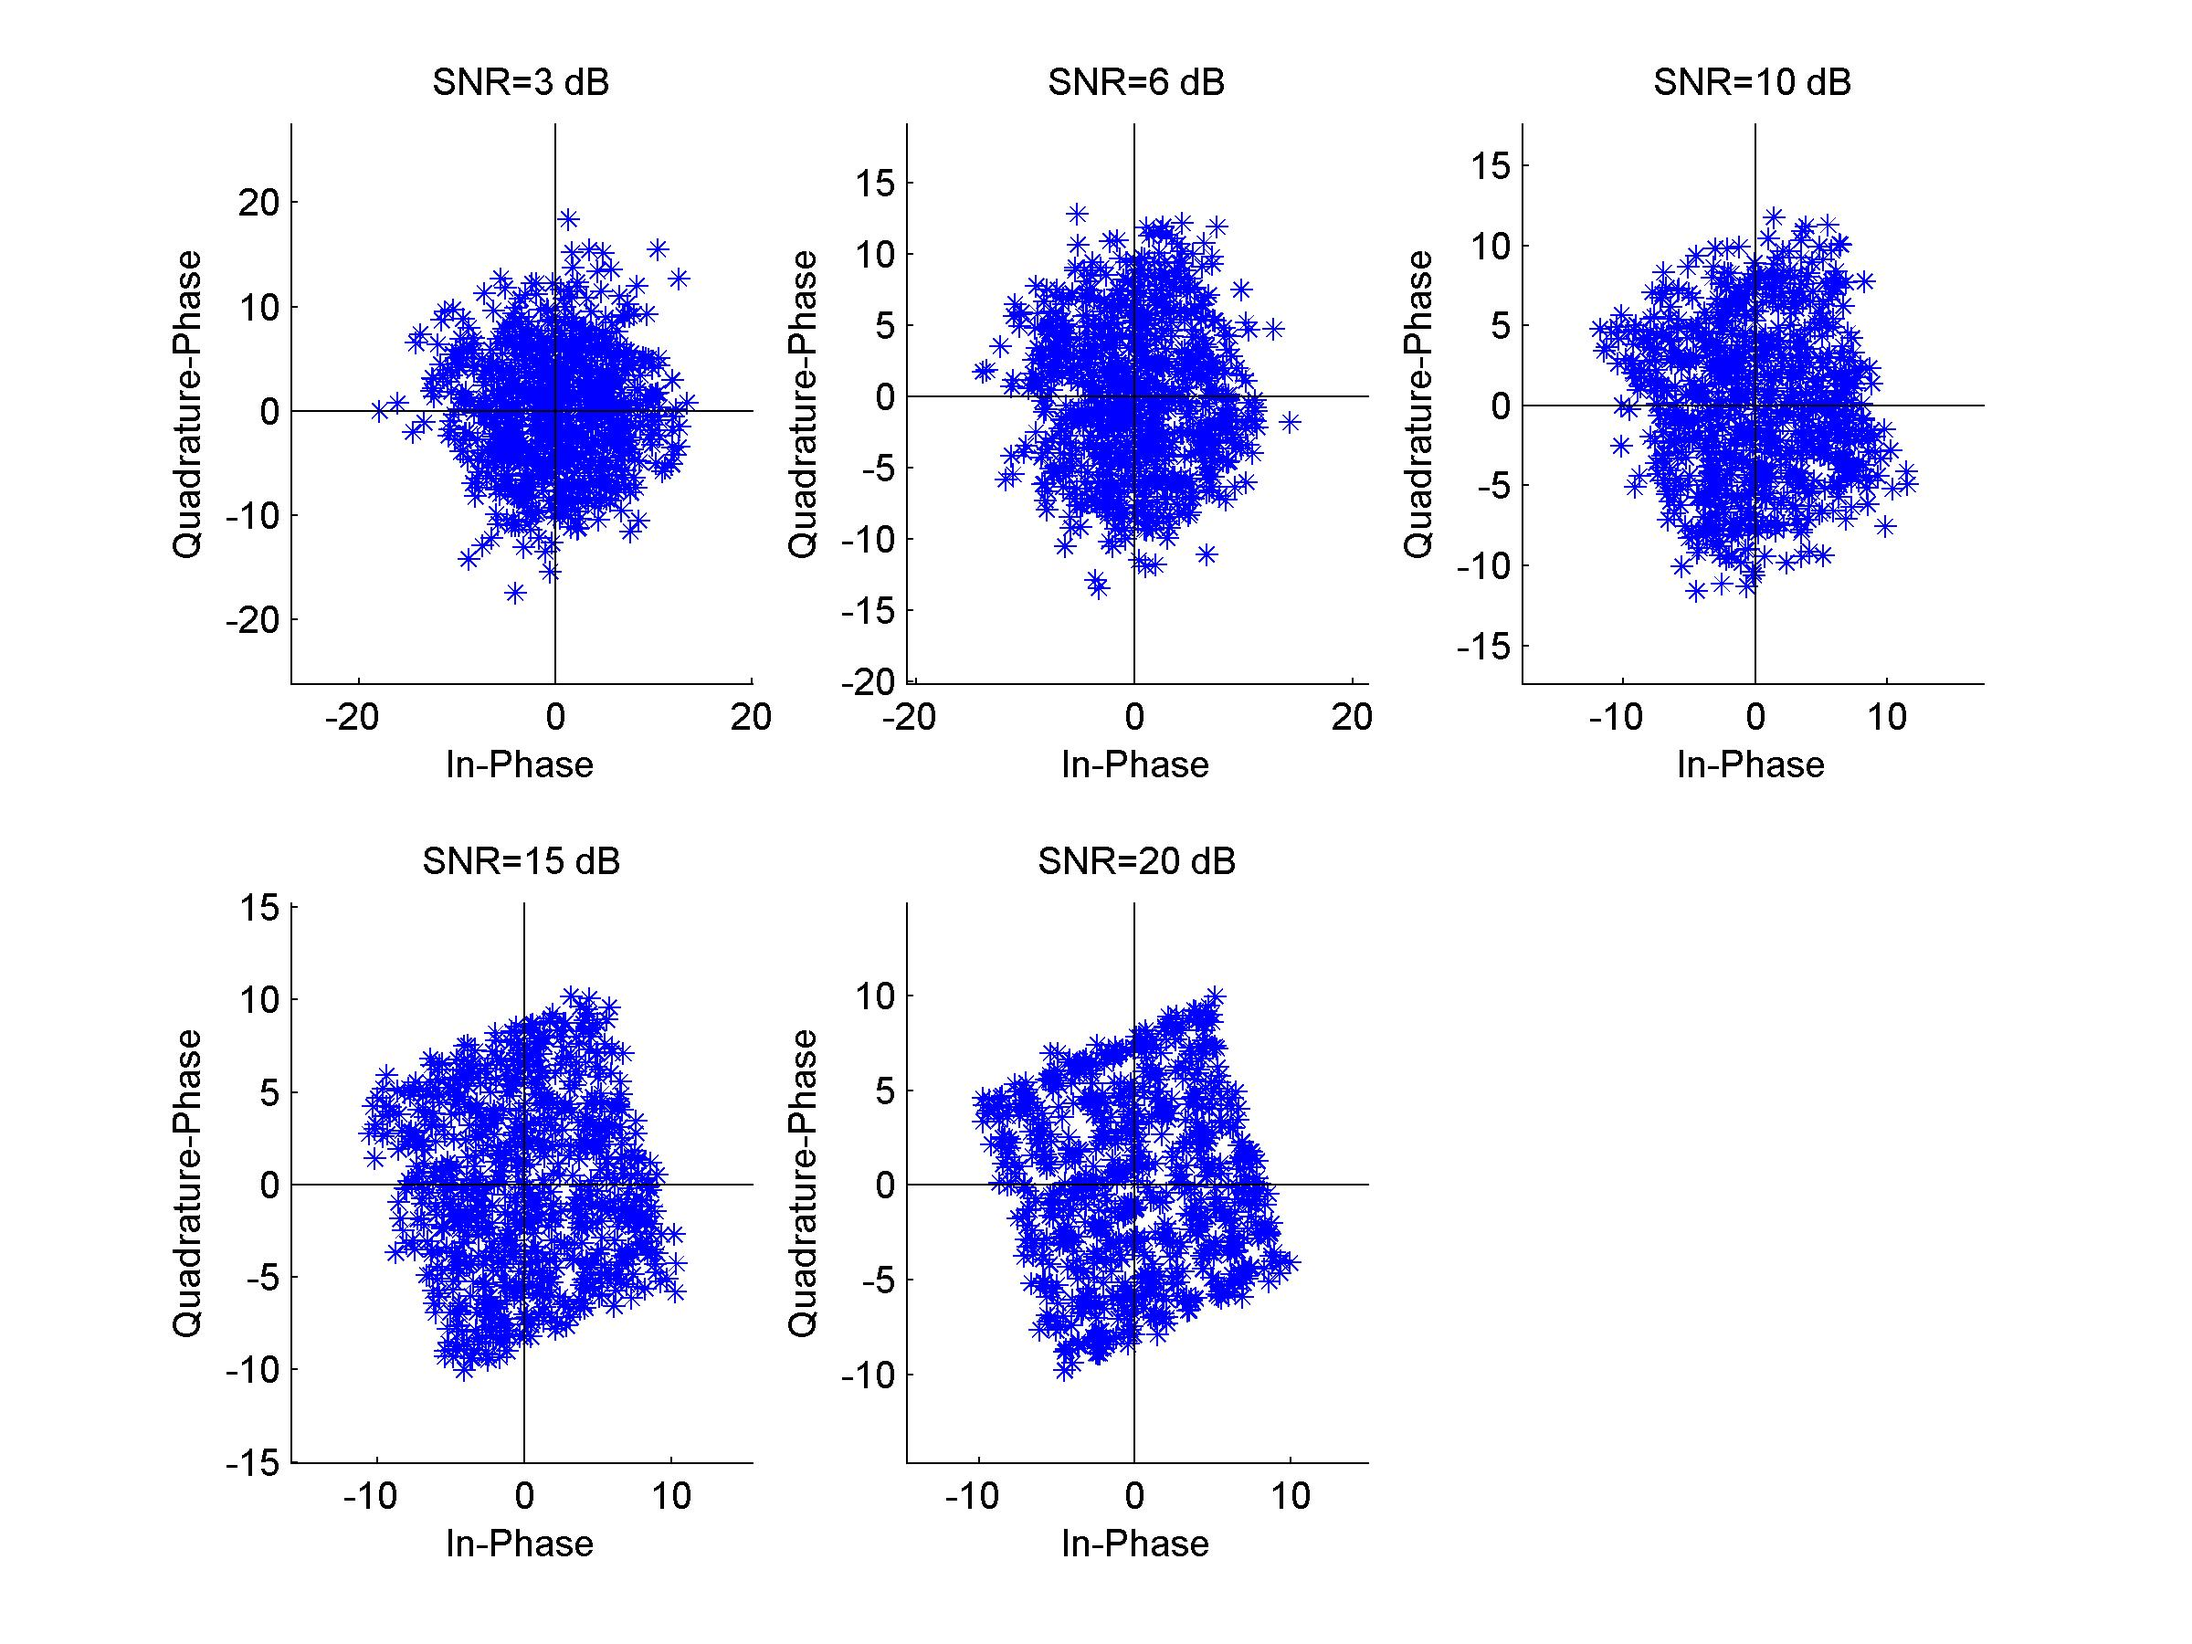
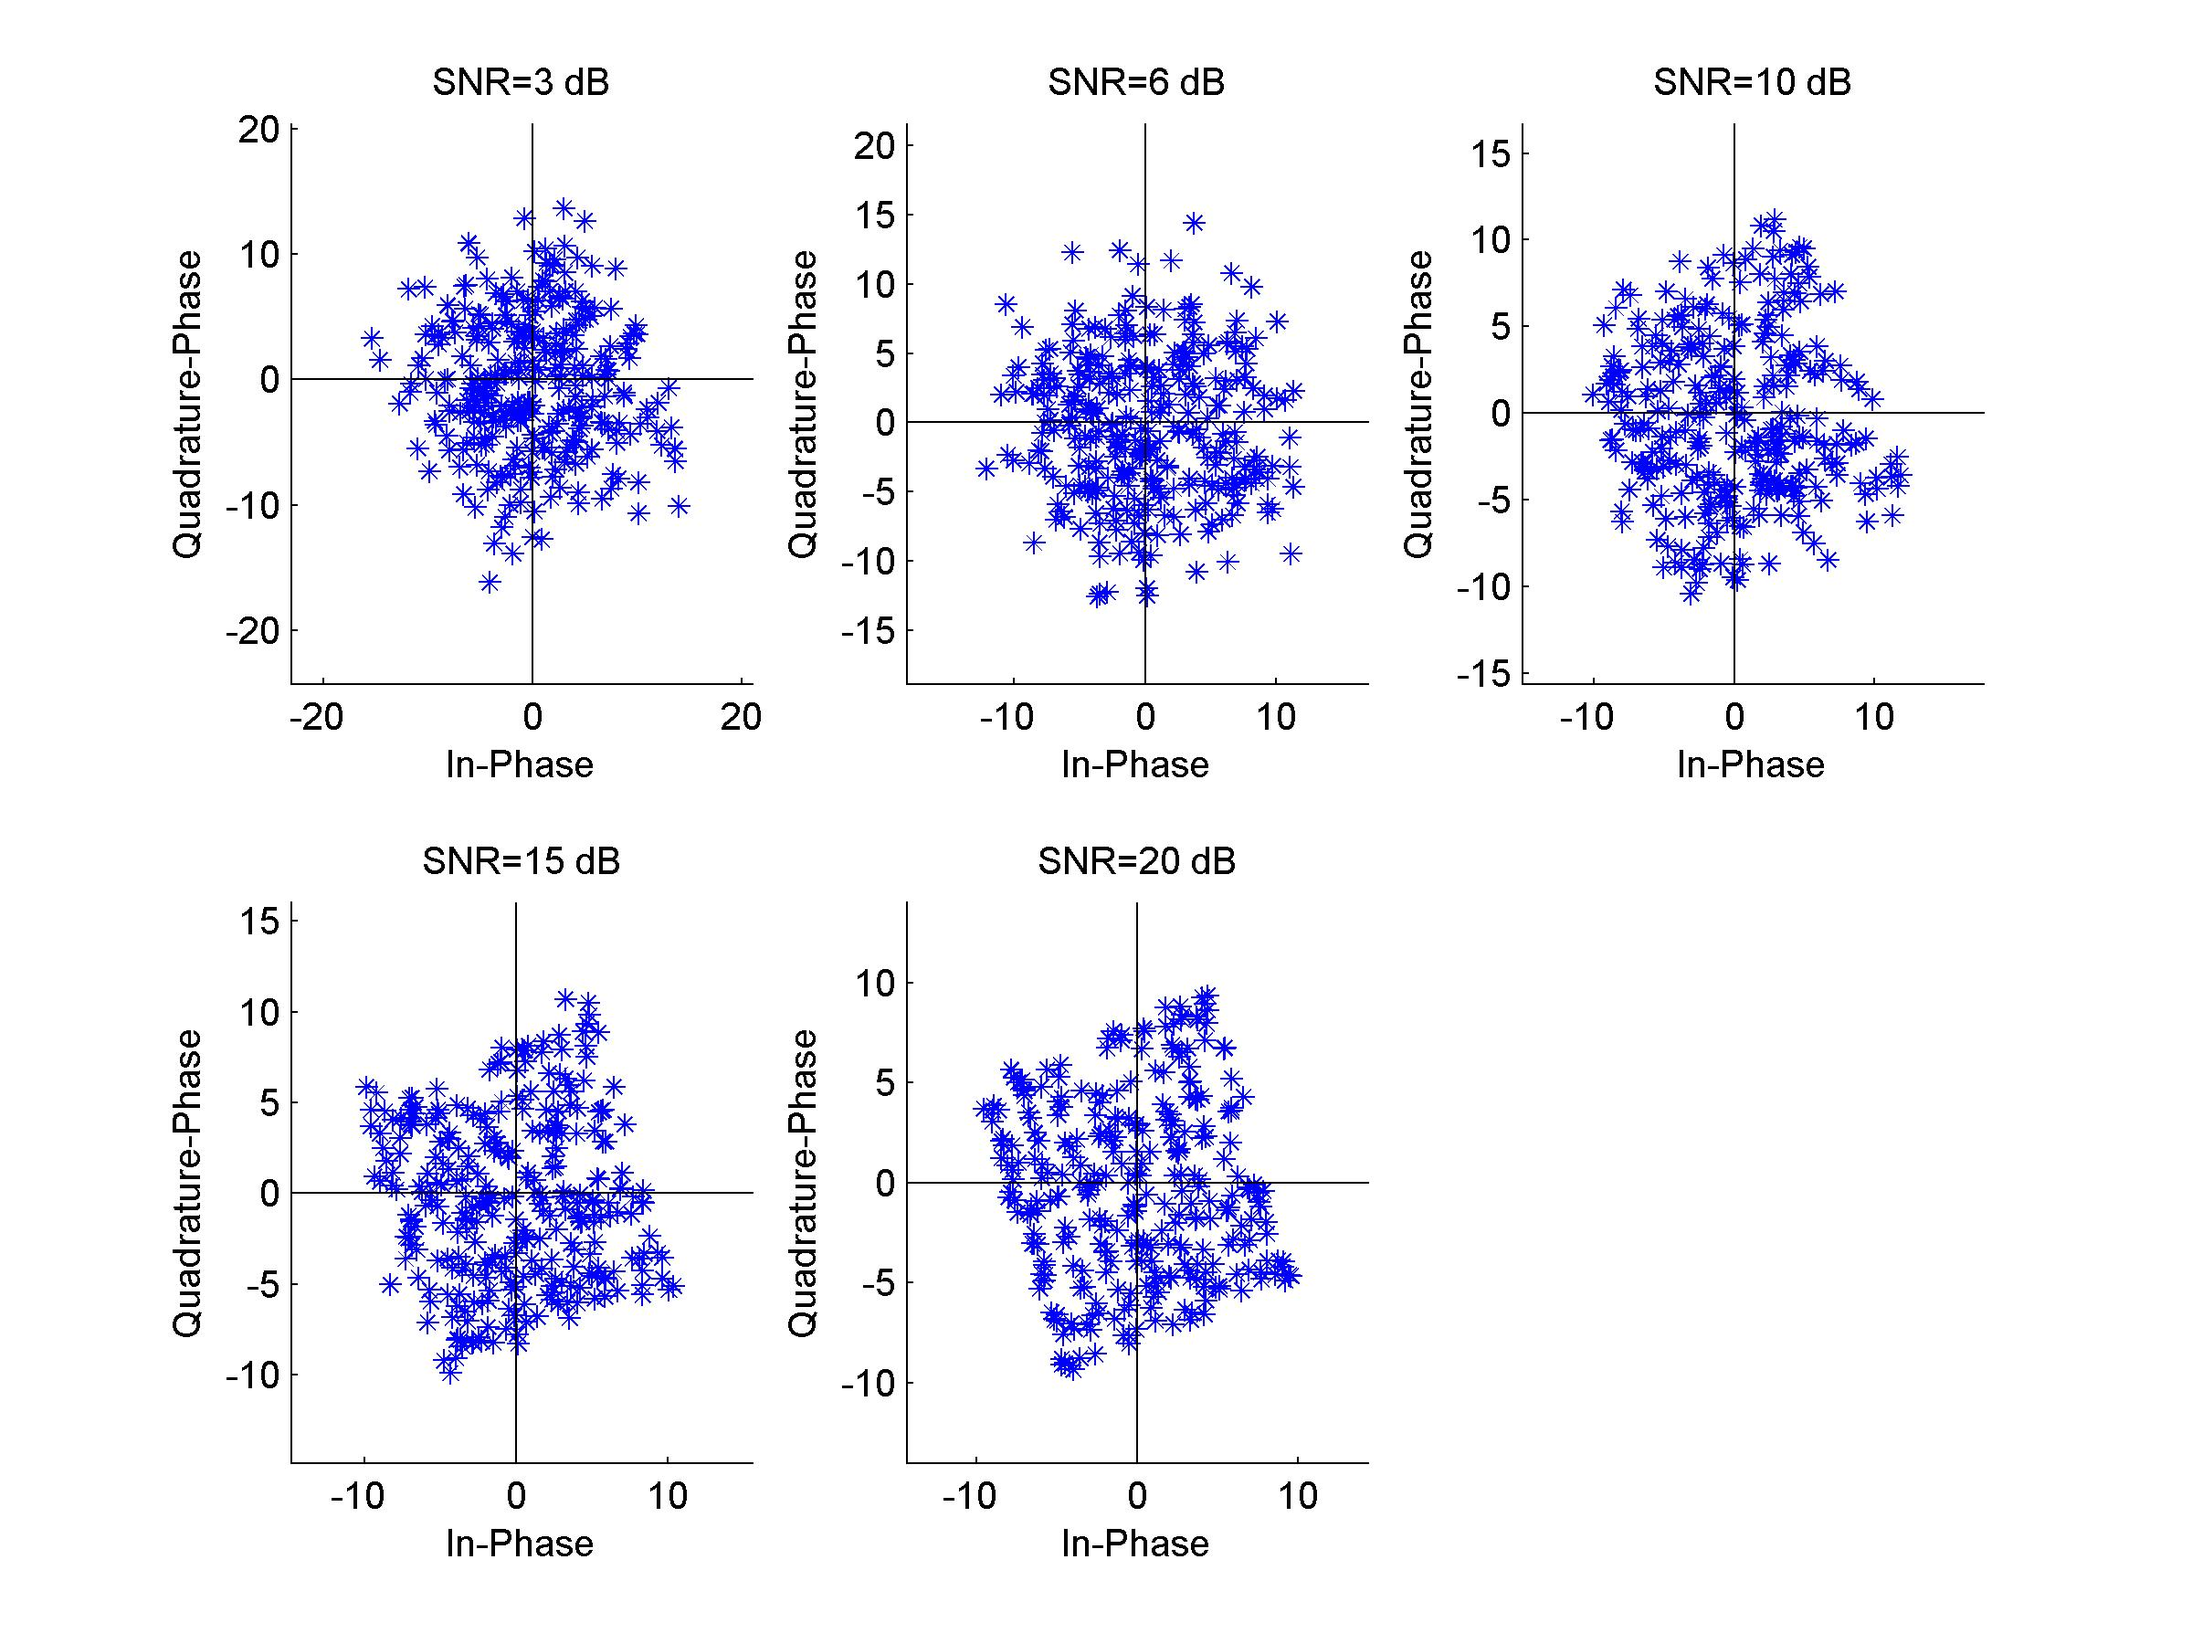
-

diff --git a/step2/step2_sim_phase_QAM64.m b/step2/step2_sim_phase_QAM64.m
@@ -10,7 +10,7 @@ B = rollOffFactor*(1/(2*Ts)) + 1/(2*Ts); %srrc pulse bandwidth
 srrc = sqrt_raised_cosine(overSampleSize,rollOffFactor,4,Ts);
 SNR = 0:20;%SNR levels where the system will be simulated
 EbN0 = SNR2EbN0(SNR,6,B);%convert given SNR levels to EbNo
-N=4800;%number of bits generated
+N=1800;%number of bits generated
 phase_offsets = [5,10,20,45]; %phase offsets for simulation
 bits = random_bit_generator(N);%random bit generation
 [quadrature, inphase] = QAM_64_mod(bits,N/6);%mapping to symbols
@@ -66,11 +66,70 @@ for k=1:length(phase_offsets)
 
         %SER calculation - drop first symbol
         ser(i) = SER(bits(7:N),output_bits(7:N),6);
-        ber(i) = BER(bits(7:N),output_bits(7:N));
+       % ber(i) = BER(bits(7:N),output_bits(7:N));
         %SER theoretical calculation
         a = 10^(EbN0(i)/10);
-        ser_theo(i) = 1-(1-(14/8)*qfunc(sqrt((18/63)*a)))^2;
-        ber_theo(i) = (1/6)*(1-(1-(14/8)*qfunc(sqrt((18/63)*a)))^2);
+        
+         Pe11(i) = qfunc(sqrt((18/63)*a)*(3*sqrt(2)*cos(pi/4+pi*phase_offsets(k)/180)-2)) + ...
+            qfunc(sqrt((18/63)*a)*(3*sqrt(2)*sin(pi/4+pi*phase_offsets(k)/180)-2));
+        Pe12(i) = qfunc(sqrt((18/63)*a)*(sqrt(10)*cos(pi/10+pi*phase_offsets(k)/180)-2)) + ...
+            qfunc(sqrt((18/63)*a)*(2-sqrt(10)*sin(pi/10+pi*phase_offsets(k)/180))) + ...
+            qfunc((sqrt(10*(18/63)*a)*cos(pi/10+pi*phase_offsets(k)/180)));
+        Pe13(i) = qfunc((sqrt(10*(18/63)*a)*cos(pi/2.5+pi*phase_offsets(k)/180))) + ...
+            qfunc(sqrt((18/63)*a)*(2-sqrt(10)*cos(pi/2.5+pi*phase_offsets(k)/180))) + ...
+            qfunc(sqrt((18/63)*a)*(sqrt(10)*sin(pi/2.5+pi*phase_offsets(k)/180)-2));
+        Pe14(i) =  qfunc((sqrt(2*(18/63)*a)*cos(pi/4+pi*phase_offsets(k)/180))) + ...
+             qfunc((sqrt(2*(18/63)*a)*cos(pi/4+pi*phase_offsets(k)/180))) + ...
+             qfunc(sqrt((18/63)*a)*(2-sqrt(2)*cos(pi/4+pi*phase_offsets(k)/180))) + ...
+             qfunc(sqrt((18/63)*a)*(2-sqrt(2)*sin(pi/4+pi*phase_offsets(k)/180)));
+         
+           Pe21(i) = qfunc(sqrt((18/63)*a)*(3*sqrt(2)*cos(pi/4+pi*phase_offsets(k)/180)-2)) + ...
+            qfunc(sqrt((18/63)*a)*(3*sqrt(2)*sin(pi/4+pi*phase_offsets(k)/180)-2));
+        Pe22(i) = qfunc(sqrt((18/63)*a)*(sqrt(10)*cos(pi/10+pi*phase_offsets(k)/180)-2)) + ...
+            qfunc(sqrt((18/63)*a)*(2-sqrt(10)*sin(pi/10+pi*phase_offsets(k)/180))) + ...
+            qfunc((sqrt(10*(18/63)*a)*cos(pi/10+pi*phase_offsets(k)/180)));
+        Pe23(i) = qfunc((sqrt(10*(18/63)*a)*cos(pi/2.5+pi*phase_offsets(k)/180))) + ...
+            qfunc(sqrt((18/63)*a)*(2-sqrt(10)*cos(pi/2.5+pi*phase_offsets(k)/180))) + ...
+            qfunc(sqrt((18/63)*a)*(sqrt(10)*sin(pi/2.5+pi*phase_offsets(k)/180)-2));
+        Pe24(i) =  qfunc((sqrt(2*(18/63)*a)*cos(pi/4+pi*phase_offsets(k)/180))) + ...
+             qfunc((sqrt(2*(18/63)*a)*cos(pi/4+pi*phase_offsets(k)/180))) + ...
+             qfunc(sqrt((18/63)*a)*(2-sqrt(2)*cos(pi/4+pi*phase_offsets(k)/180))) + ...
+             qfunc(sqrt((18/63)*a)*(2-sqrt(2)*sin(pi/4+pi*phase_offsets(k)/180)));
+         
+           Pe31(i) = qfunc(sqrt((18/63)*a)*(3*sqrt(2)*cos(pi/4+pi*phase_offsets(k)/180)-2)) + ...
+            qfunc(sqrt((18/63)*a)*(3*sqrt(2)*sin(pi/4+pi*phase_offsets(k)/180)-2));
+        Pe32(i) = qfunc(sqrt((18/63)*a)*(sqrt(10)*cos(pi/10+pi*phase_offsets(k)/180)-2)) + ...
+            qfunc(sqrt((18/63)*a)*(2-sqrt(10)*sin(pi/10+pi*phase_offsets(k)/180))) + ...
+            qfunc((sqrt(10*(18/63)*a)*cos(pi/10+pi*phase_offsets(k)/180)));
+        Pe33(i) = qfunc((sqrt(10*(18/63)*a)*cos(pi/2.5+pi*phase_offsets(k)/180))) + ...
+            qfunc(sqrt((18/63)*a)*(2-sqrt(10)*cos(pi/2.5+pi*phase_offsets(k)/180))) + ...
+            qfunc(sqrt((18/63)*a)*(sqrt(10)*sin(pi/2.5+pi*phase_offsets(k)/180)-2));
+        Pe34(i) =  qfunc((sqrt(2*(18/63)*a)*cos(pi/4+pi*phase_offsets(k)/180))) + ...
+             qfunc((sqrt(2*(18/63)*a)*cos(pi/4+pi*phase_offsets(k)/180))) + ...
+             qfunc(sqrt((18/63)*a)*(2-sqrt(2)*cos(pi/4+pi*phase_offsets(k)/180))) + ...
+             qfunc(sqrt((18/63)*a)*(2-sqrt(2)*sin(pi/4+pi*phase_offsets(k)/180)));
+         
+          Pe41(i) = qfunc(sqrt((18/63)*a)*(3*sqrt(2)*cos(pi/4+pi*phase_offsets(k)/180)-2)) + ...
+            qfunc(sqrt((18/63)*a)*(3*sqrt(2)*sin(pi/4+pi*phase_offsets(k)/180)-2));
+        Pe42(i) = qfunc(sqrt((18/63)*a)*(sqrt(10)*cos(pi/10+pi*phase_offsets(k)/180)-2)) + ...
+            qfunc(sqrt((18/63)*a)*(2-sqrt(10)*sin(pi/10+pi*phase_offsets(k)/180))) + ...
+            qfunc((sqrt(10*(18/63)*a)*cos(pi/10+pi*phase_offsets(k)/180)));
+        Pe43(i) = qfunc((sqrt(10*(18/63)*a)*cos(pi/2.5+pi*phase_offsets(k)/180))) + ...
+            qfunc(sqrt((18/63)*a)*(2-sqrt(10)*cos(pi/2.5+pi*phase_offsets(k)/180))) + ...
+            qfunc(sqrt((18/63)*a)*(sqrt(10)*sin(pi/2.5+pi*phase_offsets(k)/180)-2));
+        Pe44(i) =  qfunc((sqrt(2*(18/63)*a)*cos(pi/4+pi*phase_offsets(k)/180))) + ...
+             qfunc((sqrt(2*(18/63)*a)*cos(pi/4+pi*phase_offsets(k)/180))) + ...
+             qfunc(sqrt((18/63)*a)*(2-sqrt(2)*cos(pi/4+pi*phase_offsets(k)/180))) + ...
+             qfunc(sqrt((18/63)*a)*(2-sqrt(2)*sin(pi/4+pi*phase_offsets(k)/180)));
+         
+        ser_theo(i) = (4/64)*(Pe14(i)+Pe11(i) + Pe12(i) + Pe13(i) +...
+                              Pe24(i)+Pe21(i) + Pe22(i) + Pe23(i) +...
+                              Pe34(i)+Pe31(i) + Pe32(i) + Pe33(i) +...
+                              Pe44(i)+Pe41(i) + Pe42(i) + Pe43(i));
+        
+        
+        
+      %  ber_theo(i) = (1/6)*(1-(1-(14/8)*qfunc(sqrt((18/63)*a)))^2);
     end
     % print the constellation plot
     print(f,'-djpeg','-r300',strcat('qam64Const',num2str(k)));
@@ -79,9 +138,9 @@ for k=1:length(phase_offsets)
     h=figure;
     semilogy(SNR,ser, 'ko');
     hold on;
-    semilogy(SNR,ber, 'bo');
+   % semilogy(SNR,ber, 'bo');
     semilogy(SNR,ser_theo, 'r');
-    semilogy(SNR,ber_theo, 'g');
+   % semilogy(SNR,ber_theo, 'g');
     ylabel('Probability of Error');
     xlabel('SNR(dB)');
     legend('Simulation(Symbol Error)','Simulation(Bit Error)','Theory(Symbol Error)', 'Theory(Bit Error)','Location','SouthWest');
